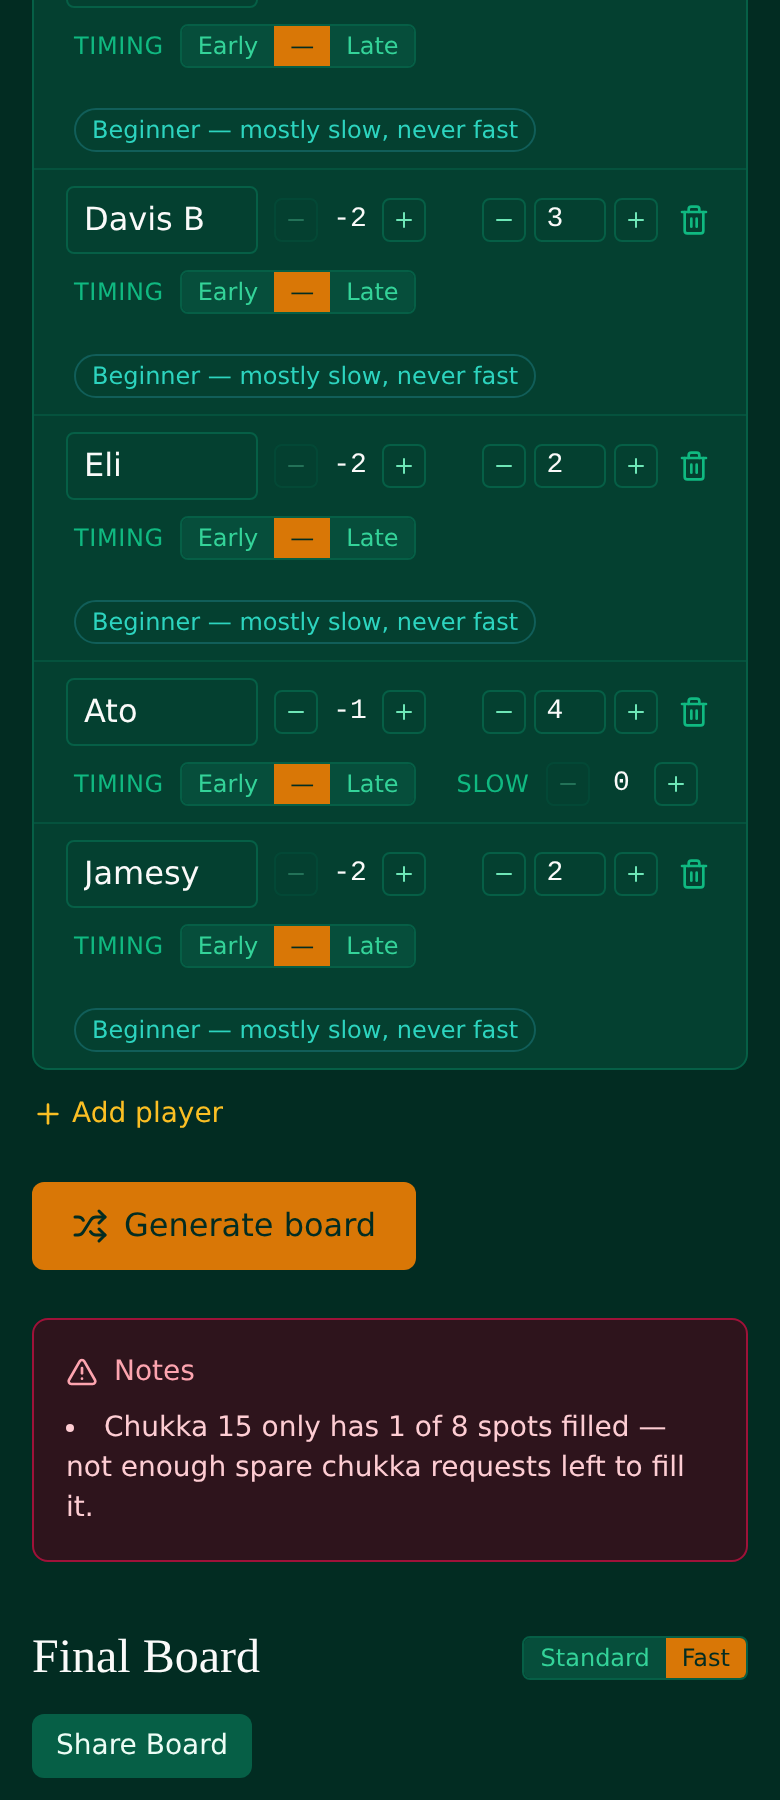
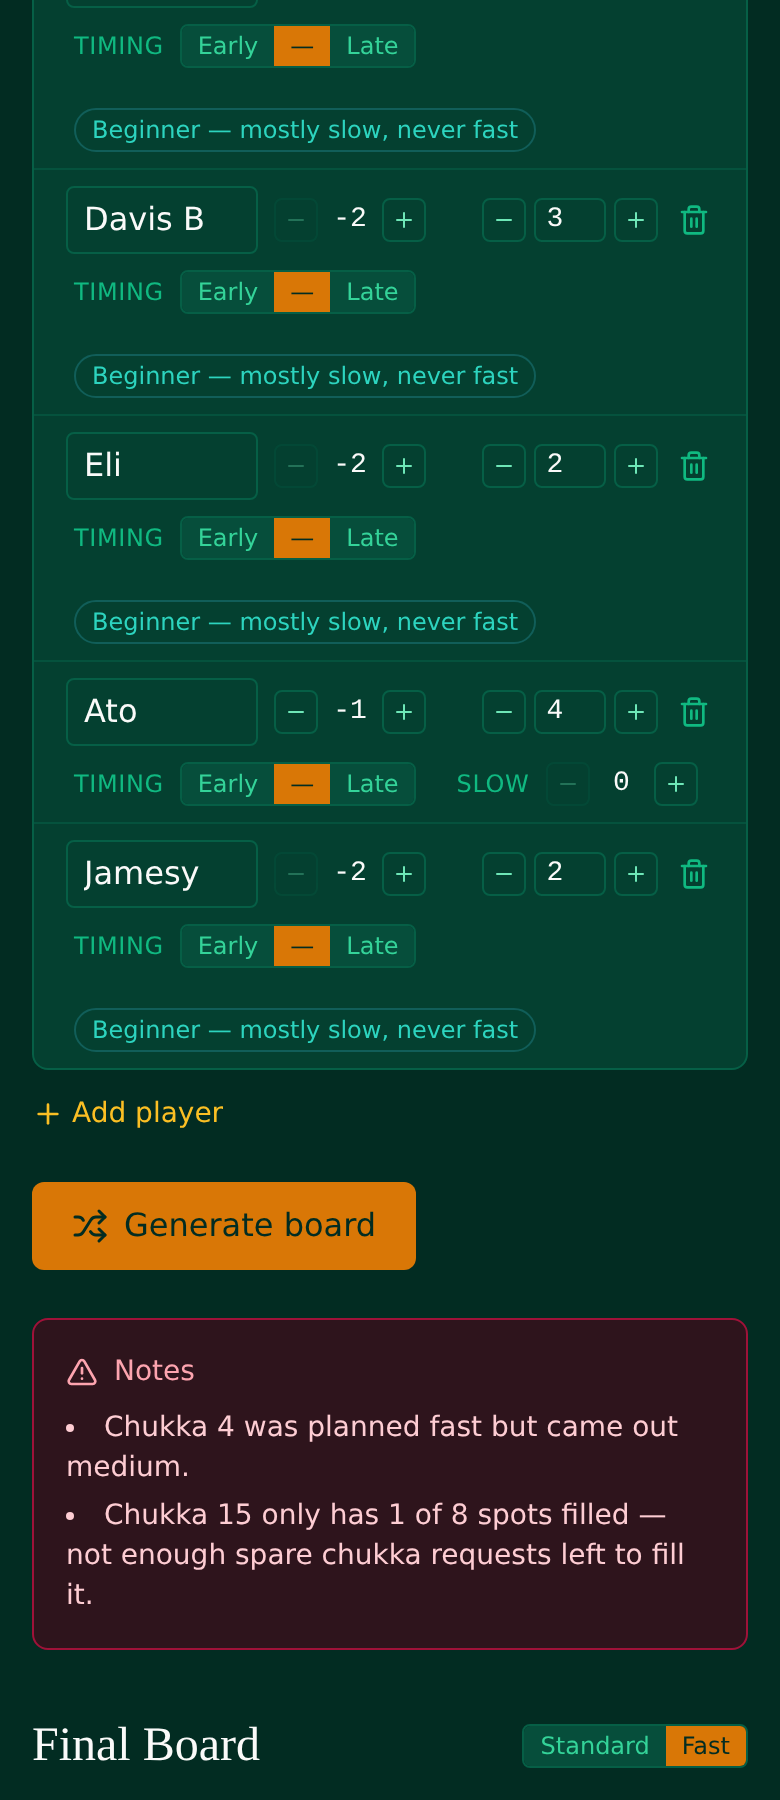
Someone above 0 on every side; no side below -5.5
- New split rules, ranked straight after the gap cap: each side needs at
  least one player above 0, and no side may total below -5.5 (was -6, and
  only for beginner sides).
- Fill: once a chukka's remaining spots are only just enough for the two
  above-0 players it needs, only above-0 players can take them.
- Fast board never plans so many fast chukkas that the rest run short of
  above-0 players.
- Score and Notes report sides that still break either rule (a leftover
  tail chukka of under four players is exempt).

On 200 random rosters, boards breaking either rule went from 63 to 3, and
those 3 didn't have enough above-0 chukkas to go round.

Claude-Session: https://claude.ai/code/session_01ARK8BZUWG3PYxkSMQtkzEV

Changed region(s): [[0.0308, 0.7778, 0.9846, 0.9956]]

diff --git a/src/scheduler.js b/src/scheduler.js
@@ -36,6 +36,12 @@ export function slowNeedOf(p) {
   return asked;
 }
 
+// Every side in every chukka has at least one player above 0 (0.5s count),
+// and no side totals below -5.5 — no "-6 goal" teams.
+export const SIDE_FLOOR = -5.5;
+const MIN_POSITIVES = 2; // per chukka: one above-0 player for each side
+const isPositive = (p) => hcap(p) > 0;
+
 // A helper is a player above 0 on the same side as a beginner. Each beginner's
 // side gets at most one — in every chukka, not just slow ones. Players who
 // asked for slow chukkas don't count, so they can join beginner chukkas even
@@ -134,10 +140,21 @@ function evenIndices(count, total) {
 // 1-goal-and-up players asked for, capped at half the day. On the club's own
 // boards this matches what was planned by hand (e.g. 34 slots → 4 fast).
 // Never so many that a -1.5 or -2 can't fit all their chukkas into the rest.
+// Also never so many that the other chukkas run out of above-0 players
+// (a fast chukka uses about six; every other chukka needs two).
 export function plannedFastCount(valid, numChukkas) {
   const highSlots = valid.filter((p) => hcap(p) >= 1).reduce((s, p) => s + wantedOf(p), 0);
+  const positiveSlots = valid.filter(isPositive).reduce((s, p) => s + wantedOf(p), 0);
   const mostWantedByNeverFast = valid.filter(neverFast).reduce((m, p) => Math.max(m, wantedOf(p)), 0);
-  return Math.max(0, Math.min(Math.floor(highSlots / CAPACITY), Math.floor(numChukkas / 2), numChukkas - mostWantedByNeverFast));
+  return Math.max(
+    0,
+    Math.min(
+      Math.floor(highSlots / CAPACITY),
+      Math.floor(numChukkas / 2),
+      numChukkas - mostWantedByNeverFast,
+      Math.floor((positiveSlots - MIN_POSITIVES * numChukkas) / (6 - MIN_POSITIVES))
+    )
+  );
 }
 
 // Label `count` chukkas, two at a time as back-to-back pairs, trying the
@@ -286,6 +303,10 @@ export function fillChukkas(valid, numChukkas, capacity, paceLabels, jitter, rel
     for (let slot = 0; slot < capacity; slot++) {
       const beginnersIn = c.players.filter(isBeginner).length;
       const helpersIn = c.players.filter(countsAsHelper).length;
+      // Once the chukka's remaining spots are only just enough for the
+      // above-0 players it still needs (one per side), only they can have them.
+      const positivesNeeded = Math.max(0, MIN_POSITIVES - c.players.filter(isPositive).length);
+      const mustTakePositive = positivesNeeded > 0 && positivesNeeded >= capacity - c.players.length;
       const avgSoFar = c.players.length > 0 ? c.players.reduce((s, cp) => s + hcap(cp), 0) / c.players.length : 0;
       const scored = [];
       valid.forEach((p) => {
@@ -357,6 +378,7 @@ export function fillChukkas(valid, numChukkas, capacity, paceLabels, jitter, rel
         // beginner in it takes at most two helpers (one each side).
         if (countsAsHelper(p) && beginnersIn >= 1 && helpersIn >= 2) score -= HELPER_CAP;
         if (isBeginner(p) && helpersIn >= 3) score -= HELPER_CAP;
+        if (mustTakePositive && !isPositive(p)) score -= HELPER_CAP;
 
         score += jitter ? Math.random() * FILL_JITTER : 0;
         scored.push({ p, score });
@@ -421,33 +443,35 @@ export function fillChukkas(valid, numChukkas, capacity, paceLabels, jitter, rel
 // comment in assignColours for why the gap cap must come first). Shared by
 // assignColours and the repair pass so the two can never disagree. "Helpers"
 // are counted with countsAsHelper().
-function balancePenalties(sumBlue, sumWhite, blueBeginners, whiteBeginners, blueHelpers, whiteHelpers) {
+function balancePenalties(sumBlue, sumWhite, blueBeginners, whiteBeginners, blueHelpers, whiteHelpers, bluePositives, whitePositives) {
   const diff = Math.abs(sumBlue - sumWhite);
   const hasBeginner = blueBeginners > 0 || whiteBeginners > 0;
   return {
     diff,
     diffCapPenalty: Math.max(0, diff - (hasBeginner ? 3 : 2)),
+    noPositivePenalty: (bluePositives === 0 ? 1 : 0) + (whitePositives === 0 ? 1 : 0),
+    weakTeamPenalty: Math.max(0, SIDE_FLOOR - sumBlue) + Math.max(0, SIDE_FLOOR - sumWhite),
     hardCapPenalty:
       (blueBeginners > 0 && sumBlue > 2.5 ? sumBlue - 2.5 : 0) + (whiteBeginners > 0 && sumWhite > 2.5 ? sumWhite - 2.5 : 0),
-    weakTeamPenalty:
-      (blueBeginners > 0 && sumBlue < -6 ? -6 - sumBlue : 0) + (whiteBeginners > 0 && sumWhite < -6 ? -6 - sumWhite : 0),
     beginnerPenalty:
       (blueBeginners > 0 ? Math.max(0, blueHelpers - 1) : 0) + (whiteBeginners > 0 ? Math.max(0, whiteHelpers - 1) : 0),
   };
 }
 
 // The best balance a chukka's roster could possibly get from any split,
-// ignoring shirt-colour history: [gap cap, beginner-side 2.5 cap, beginner-side
-// -6 floor, one helper per beginner side]. All zeros means fully compliant.
+// ignoring shirt-colour history: [gap cap, someone above 0 each side, -5.5
+// side floor, beginner-side 2.5 cap, one helper per beginner side]. All zeros
+// means fully compliant.
 function rosterBalanceKey(roster) {
   const total = roster.length;
-  if (total < 2) return [0, 0, 0, 0];
+  if (total < 2) return [0, 0, 0, 0, 0];
   const hs = roster.map(hcap);
   const beg = roster.map(isBeginner);
   const helper = roster.map(countsAsHelper);
   let best = null;
   for (const comboIdx of cachedCombinations(total, Math.ceil(total / 2))) {
     let sumBlue = 0, sumWhite = 0, blueBeginners = 0, whiteBeginners = 0, blueHelpers = 0, whiteHelpers = 0;
+    let bluePositives = 0, whitePositives = 0;
     let ci = 0;
     for (let i = 0; i < total; i++) {
       const inBlue = comboIdx[ci] === i;
@@ -456,14 +480,16 @@ function rosterBalanceKey(roster) {
         sumBlue += hs[i];
         if (beg[i]) blueBeginners++;
         if (helper[i]) blueHelpers++;
+        if (hs[i] > 0) bluePositives++;
       } else {
         sumWhite += hs[i];
         if (beg[i]) whiteBeginners++;
         if (helper[i]) whiteHelpers++;
+        if (hs[i] > 0) whitePositives++;
       }
     }
-    const pen = balancePenalties(sumBlue, sumWhite, blueBeginners, whiteBeginners, blueHelpers, whiteHelpers);
-    const key = [pen.diffCapPenalty, pen.hardCapPenalty, pen.weakTeamPenalty, pen.beginnerPenalty];
+    const pen = balancePenalties(sumBlue, sumWhite, blueBeginners, whiteBeginners, blueHelpers, whiteHelpers, bluePositives, whitePositives);
+    const key = [pen.diffCapPenalty, pen.noPositivePenalty, pen.weakTeamPenalty, pen.hardCapPenalty, pen.beginnerPenalty];
     if (!best || compareKeys(key, best) < 0) best = key;
     if (best.every((k) => k <= 1e-9)) break;
   }
@@ -613,6 +639,8 @@ export function assignColours(chukkas, valid) {
       let blueHelpers = 0;
       let whiteBeginners = 0;
       let whiteHelpers = 0;
+      let bluePositives = 0;
+      let whitePositives = 0;
       const pairSeen = {};
       roster.forEach((p, i) => {
         const inBlue = blueSet.has(i);
@@ -626,6 +654,10 @@ export function assignColours(chukkas, valid) {
         if (countsAsHelper(p)) {
           if (inBlue) blueHelpers++;
           else whiteHelpers++;
+        }
+        if (h > 0) {
+          if (inBlue) bluePositives++;
+          else whitePositives++;
         }
         const prev = history[p.id].colour;
         if (prev) {
@@ -648,23 +680,35 @@ export function assignColours(chukkas, valid) {
       // stack helpers", which let a split with an enormous gap look
       // "compliant" purely by exempting the other side from any beginner
       // rule at all. Only among splits that already keep the gap in check
-      // do the finer beginner protections get to break ties: never exceed a
-      // 2.5 total on a beginner's side; a beginner's side can't drop below
-      // -6; at most one helper on a beginner's side; try not to push anyone
+      // do the other rules get to break ties: someone above 0 on each side;
+      // no side below -5.5; never exceed a 2.5 total on a beginner's side;
+      // at most one helper on a beginner's side; try not to push anyone
       // past 3 shirt changes for the day (a soft preference — an uneven team
       // is worse than an extra shirt change); prefer keeping colours the same
       // generally; minimise the handicap gap further; avoid stacking
       // strong/weak pairs together. Each entry is compared in turn — only
       // moving to the next one if the current one is tied.
-      const { diffCapPenalty, hardCapPenalty, weakTeamPenalty, beginnerPenalty } = balancePenalties(
+      const { diffCapPenalty, noPositivePenalty, weakTeamPenalty, hardCapPenalty, beginnerPenalty } = balancePenalties(
         sumBlue,
         sumWhite,
         blueBeginners,
         whiteBeginners,
         blueHelpers,
-        whiteHelpers
+        whiteHelpers,
+        bluePositives,
+        whitePositives
       );
-      const key = [diffCapPenalty, hardCapPenalty, weakTeamPenalty, beginnerPenalty, changeCapPenalty, changeCost, diff, pairPenalty];
+      const key = [
+        diffCapPenalty,
+        noPositivePenalty,
+        weakTeamPenalty,
+        hardCapPenalty,
+        beginnerPenalty,
+        changeCapPenalty,
+        changeCost,
+        diff,
+        pairPenalty,
+      ];
       if (!best || compareKeys(key, best.key) < 0) best = { key, diff, blueSet };
     });
 
@@ -759,9 +803,20 @@ export function generateBoard(players, mode = 'standard', { beginnerPlacement = 
       const hasBeginner = c.players.some(isBeginner);
       return s + Math.max(0, Math.abs(teamTotal(c.blue) - teamTotal(c.white)) - (hasBeginner ? 3 : 2));
     }, 0);
+    // Sides with nobody above 0, plus goals below the -5.5 side floor.
+    const sideBreaches = chukkas.reduce(
+      (s, c) =>
+        s +
+        [c.blue, c.white].reduce(
+          (t, side) => t + (side.length > 0 && !side.some(isPositive) ? 1 : 0) + Math.max(0, SIDE_FLOOR - teamTotal(side)),
+          0
+        ),
+      0
+    );
     const score =
       unmet * 100000 +
       gapBreaches * 3000 +
+      sideBreaches * 3000 +
       tooFast * 2000 +
       violations.length * 1500 +
       capBreaches * 1000 +
@@ -808,6 +863,19 @@ export function generateBoard(players, mode = 'standard', { beginnerPlacement = 
     if (gap > gapCap) {
       warn.push(`Chukka ${c.index + 1}: handicap gap is ${gap}, couldn't get it under ${gapCap} given who's in that chukka.`);
     }
+    // (A leftover tail chukka of one to three players isn't a real game — the
+    // "only has N of 8 spots" note above already covers it.)
+    if (c.players.length >= 4) [
+      ['Blue', c.blue],
+      ['White', c.white],
+    ].forEach(([colour, side]) => {
+      if (side.length > 0 && !side.some(isPositive)) {
+        warn.push(`Chukka ${c.index + 1}: ${colour} has nobody above 0 — not enough higher-goal chukkas to go round.`);
+      }
+      if (teamTotal(side) < SIDE_FLOOR) {
+        warn.push(`Chukka ${c.index + 1}: ${colour} totals ${teamTotal(side)}, below the ${SIDE_FLOOR} floor.`);
+      }
+    });
     if (c.displayPace === 'fast') {
       c.players.filter(neverFast).forEach((p) => {
         warn.push(`${p.name} (${p.handicap}) is in fast Chukka ${c.index + 1} — couldn't keep them out given who's playing.`);

diff --git a/docs/HANDOFF.md b/docs/HANDOFF.md
@@ -76,6 +76,11 @@ at 0.85 of the way through the day (the club's board: chukkas 10–13 of 13), an
   chukka takes two helpers at most, and a beginner's medium chukka sits right
   next to the block as a lead-in (`BEGINNER_LEAD_IN`).
 - **0.5s count as helpers** (anything above 0), confirmed by the club.
+- **Someone above 0 on every side, in every chukka**, and **no side below -5.5**
+  (`SIDE_FLOOR`; no "-6 goal" teams). Both rank straight after the gap cap. The
+  fill makes sure each chukka gets two above-0 players; the Fast board never plans
+  so many fast chukkas that the others would run short of them. A leftover tail
+  chukka of under four players is exempt.
 - **Improvers (-1.5)**: at least half their chukkas slow (`IMPROVER_SLOW_SHARE`,
   or more if they ask), never in a fast chukka.
 - **One helper per beginner side, in every chukka**: a "helper" is a player above
@@ -162,15 +167,17 @@ order, **highest first**:
 1. **`diffCapPenalty`** — Blue/White handicap gap must stay ≤2 (no beginner in the
    chukka) or ≤3 (beginner present). **This must stay priority #1** — see "Hard
    lessons" below, this is not negotiable without re-reading that section.
-2. **`hardCapPenalty`** — a side with a beginner can't total more than 2.5.
-3. **`weakTeamPenalty`** — a side with a beginner can't total below -6.
-4. **`beginnerPenalty`** — a side with a beginner gets at most one helper
+2. **`noPositivePenalty`** — each side needs at least one player above 0.
+3. **`weakTeamPenalty`** — no side can total below -5.5 (`SIDE_FLOOR`), beginner
+   or not.
+4. **`hardCapPenalty`** — a side with a beginner can't total more than 2.5.
+5. **`beginnerPenalty`** — a side with a beginner gets at most one helper
    (`countsAsHelper()`: above 0 and not a slow-requester).
-5. **`changeCapPenalty`** — soft cap of 3 shirt-colour changes per player, for the
+6. **`changeCapPenalty`** — soft cap of 3 shirt-colour changes per player, for the
    whole day.
-6. **`changeCost`** — general preference to keep the same colour as last time.
-7. **`diff`** — fine-grained minimisation of the handicap gap, below the cap.
-8. **`pairPenalty`** — the chukka's 8 players are ranked by handicap and paired up
+7. **`changeCost`** — general preference to keep the same colour as last time.
+8. **`diff`** — fine-grained minimisation of the handicap gap, below the cap.
+9. **`pairPenalty`** — the chukka's 8 players are ranked by handicap and paired up
    (closest-ranked together); prefer splits where each pair ends up on opposite
    sides, so a tied sum doesn't still produce "2 strong + 2 weak" vs "4 mediums".
 
@@ -179,7 +186,7 @@ order, **highest first**:
 The greedy fill sometimes produces a chukka whose roster *no* split can make
 compliant (e.g. too many high-goal players alongside beginners). After the fill,
 the repair pass takes the worst such chukka (by `rosterBalanceKey()`: the best
-achievable `[diffCapPenalty, hardCapPenalty, weakTeamPenalty, beginnerPenalty]`
+achievable `[diffCapPenalty, noPositivePenalty, weakTeamPenalty, hardCapPenalty, beginnerPenalty]`
 over all splits, ignoring shirt history) and tries swapping each of its players
 with each player in every other chukka. It takes the swap that most improves the
 two chukkas' combined key, in the same priority order as Stage 2 (gap cap first).
@@ -214,11 +221,12 @@ attempts mostly converged on the same result.) Each attempt goes fill → repair
 colours, and the lowest weighted score wins:
 
 ```
-unmet×100000 + gapBreaches×3000 + tooFast×2000 + violations.length×1500
+unmet×100000 + gapBreaches×3000 + sideBreaches×3000 + tooFast×2000 + violations.length×1500
   + capBreaches×1000 + fastMiss×500 + paceMismatch×200 + totalChanges×50 + totalDiff×10
 ```
 
-(`gapBreaches`/`capBreaches` mirror the per-chukka diff-cap/shirt-cap checks across
+(`sideBreaches` = sides with nobody above 0 plus goals below -5.5;
+`gapBreaches`/`capBreaches` mirror the per-chukka diff-cap/shirt-cap checks across
 the whole day; `tooFast` = -1.5/-2 player-slots in chukkas that play fast;
 `violations` = timing-preference misses, recomputed after repair; `fastMiss` =
 planned-fast chukkas that didn't play fast (Fast board only); `unmet` = requested
